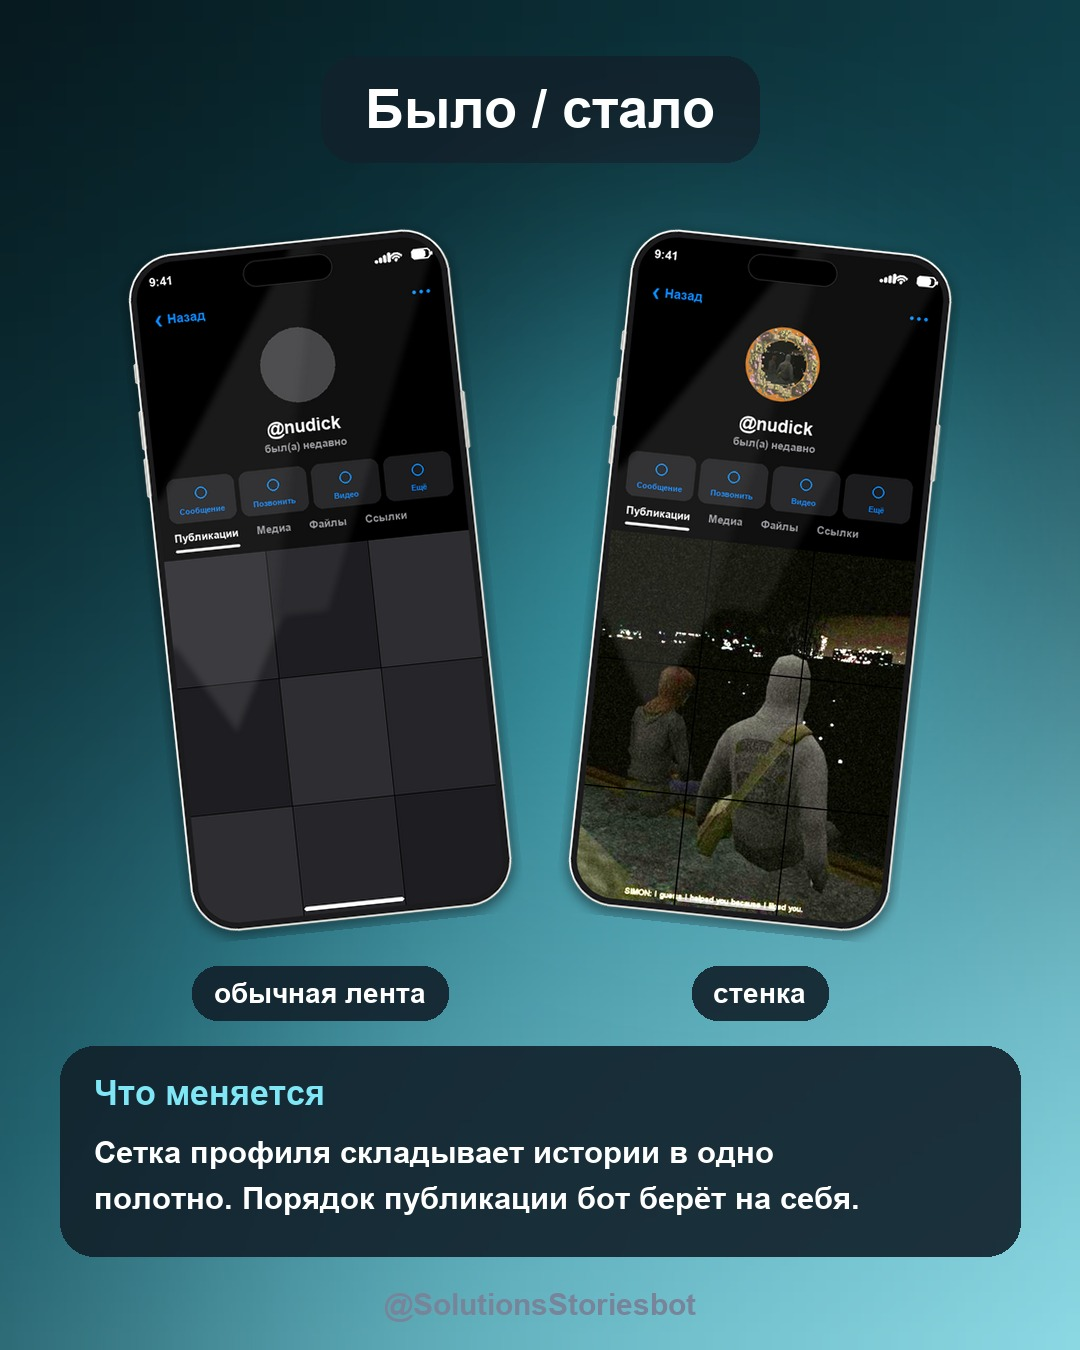
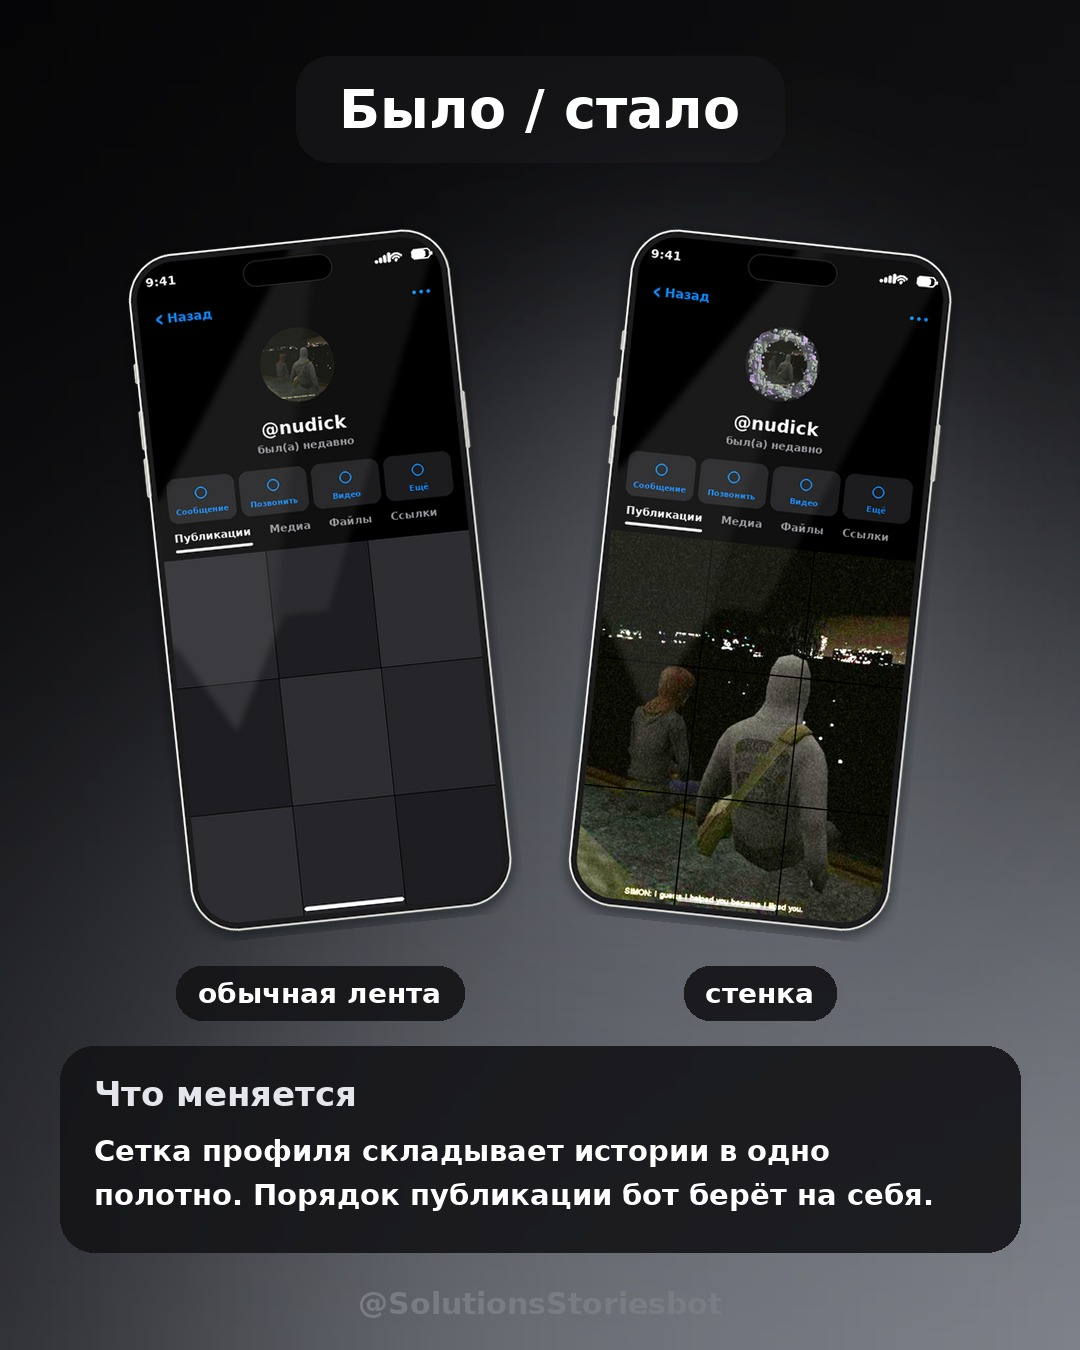
«Для чего это» — тоже серо-белое и на профиле нажавшего
Раздел объясняет, зачем человеку стенка, и объяснял это на чужом
демо-кадре в бирюзе. Теперь «было / стало» собирается на его аватарке:
слева его обычная лента, справа она же одним полотном — отличаются
половинки ровно тем, о чём раздел.

Аватарка на «было» настоящая и без рамки, иначе сравнение подменяет
заодно и лицо. Кадрируется по центру: почти никакая ава не квадратная,
и прежний resize превращал лицо в блин — это чинит и рамки в шапке
профиля на всех карточках.

Логика «взять аву, собрать, упасть на файл из assets» была написана
под инструкцию и теперь общая для обоих разделов.

diff --git a/make_assets.py b/make_assets.py
@@ -389,7 +389,9 @@ def _profile_chrome(screen: Image.Image, name: str, avatar: Image.Image | None) 
     avatar_d = 104
     top = 110
     if avatar is not None:
-        plate = avatar.convert("RGB").resize((avatar_d, avatar_d), Image.LANCZOS)
+        #: Кадрируем по центру, а не растягиваем: аватарка почти никогда
+        #: не квадратная, и resize превращал лицо в блин.
+        plate = slicer._cover(avatar.convert("RGB"), avatar_d, avatar_d)
         mask = Image.new("L", (avatar_d * 4, avatar_d * 4), 0)
         ImageDraw.Draw(mask).ellipse((0, 0, avatar_d * 4 - 1, avatar_d * 4 - 1), fill=255)
         screen.paste(plate, ((width - avatar_d) // 2, top),
@@ -478,10 +480,14 @@ def profile_screen(source: bytes, parts: int, width: int, name: str,
     return screen
 
 
-def blank_screen(name: str = "@nudick") -> Image.Image:
-    """Тот же профиль, но с обычной лентой — половина карточки «было/стало»."""
+def blank_screen(name: str = "@nudick", avatar: Image.Image | None = None) -> Image.Image:
+    """Тот же профиль, но с обычной лентой — половина карточки «было/стало».
+
+    Аватарка тут его настоящая, без рамки: половинки должны отличаться
+    ровно тем, о чём раздел, — лентой, а не подменённым лицом.
+    """
     screen = Image.new("RGB", (SCREEN_W, SCREEN_H), IOS_BG)
-    grid_top = _profile_chrome(screen, name, None)
+    grid_top = _profile_chrome(screen, name, avatar)
     draw = ImageDraw.Draw(screen)
     gap = 2
     cell = (SCREEN_W - gap * 2) // 3
@@ -635,12 +641,15 @@ def make_manual(source: bytes) -> Image.Image:
     return manual_card(source)
 
 
+def _jpeg(card: Image.Image) -> bytes:
+    buf = io.BytesIO()
+    card.convert("RGB").save(buf, format="JPEG", quality=90, optimize=True)
+    return buf.getvalue()
+
+
 def personal_manual(photo: bytes, name: str) -> bytes:
     """Та же карточка, но собранная под конкретного человека, в JPEG."""
-    buf = io.BytesIO()
-    manual_card(photo, name).convert("RGB").save(buf, format="JPEG", quality=90,
-                                                 optimize=True)
-    return buf.getvalue()
+    return _jpeg(manual_card(photo, name))
 
 
 def make_welcome(source: bytes) -> Image.Image:
@@ -669,22 +678,34 @@ def make_welcome(source: bytes) -> Image.Image:
     return card
 
 
-def make_about(source: bytes) -> Image.Image:
-    card = backdrop()
+def about_card(source: bytes, name: str = OWNER) -> Image.Image:
+    """«Было / стало» на профиле конкретного человека.
+
+    Раздел отвечает на вопрос «а зачем мне это»; ответ убедительнее
+    всего выглядит на его собственной аватарке: слева его обычная лента,
+    справа она же, собранная в одно полотно.
+    """
+    card = backdrop(stops=MONO_STOPS, glow_colour=MONO_GLOW)
     draw = ImageDraw.Draw(card, "RGBA")
-    title_plate(draw, "Было / стало")
+    title_plate(draw, "Было / стало", plate=MONO_PLATE)
 
     #: Наклон навстречу друг другу: два одинаково стоящих корпуса
     #: читаются как таблица, развёрнутые — как сравнение.
     shells = []
-    for inner, angle in ((blank_screen(OWNER), 6), (profile_screen(source, 9, SCREEN_W, OWNER), -6)):
+    with Image.open(io.BytesIO(source)) as raw:
+        face = raw.convert("RGB").copy()
+    screens = (
+        blank_screen(name, face),
+        profile_screen(source, 9, SCREEN_W, name, colour_index=0),
+    )
+    for inner, angle in zip(screens, (6, -6)):
         shell = phone(inner)
         scale = 700 / shell.height
         shell = shell.resize((round(shell.width * scale), round(shell.height * scale)),
                              Image.LANCZOS)
         shells.append(tilt(shell, angle))
 
-    halo(card, 700, 560, 250, (86, 220, 236), 0.34)
+    halo(card, 700, 560, 250, MONO_GLOW, 0.26)
     gap = 26
     span = shells[0].width + shells[1].width + gap
     x = (W - span) // 2
@@ -697,20 +718,27 @@ def make_about(source: bytes) -> Image.Image:
         cx = (W - span) // 2 + index * (shells[0].width + gap) + shells[0].width / 2
         w = draw.textlength(label, font=font(28))
         draw.rounded_rectangle((cx - w / 2 - 22, 966, cx + w / 2 + 22, 1020),
-                               radius=26, fill=PLATE + (PLATE_ALPHA,))
+                               radius=26, fill=MONO_PLATE + (PLATE_ALPHA,))
         draw.text((cx, 993), label, font=font(28), fill=INK, anchor="mm")
 
-    #: Две строки, а не четыре: плашка кончается на 1216, четвёртая
-    #: строка ложилась уже на градиент под ней.
     chip(
-        draw, (60, 1046, W - 60, 1216), "Что меняется",
-        [
-            "Сетка профиля складывает истории в одно",
-            "полотно. Порядок публикации бот берёт на себя.",
-        ],
+        draw, (60, 1046, W - 60, 1046), "Что меняется",
+        ["Сетка профиля складывает истории в одно полотно. "
+         "Порядок публикации бот берёт на себя."],
+        accent=MONO_ACCENT, plate=MONO_PLATE, size=29, step=44,
     )
-    footer(card)
+    footer(card, colour=MONO_FOOT)
     return card
+
+
+def make_about(source: bytes) -> Image.Image:
+    """Запасная витрина в файле — на случай, если у человека нет авы."""
+    return about_card(source)
+
+
+def personal_about(photo: bytes, name: str) -> bytes:
+    """«Было / стало» под конкретного человека, в JPEG."""
+    return _jpeg(about_card(photo, name))
 
 
 def profile_card(avatar_src: bytes, frame_index: int, colour_index: int,
@@ -824,7 +852,7 @@ def pick_source(argv: list[str]) -> bytes:
 #: у него нет ни исходников, ни шрифтов, — поэтому даже --force их не
 #: трогает. Один раз я так уже затёр готовые баннеры; проверка стоит
 #: строчки, а восстановление стоило вечера.
-HANDMADE = {"welcome.jpg", "about.jpg", "frames.jpg"}
+HANDMADE = {"welcome.jpg", "frames.jpg"}
 
 
 def main() -> int:

diff --git a/handlers.py b/handlers.py
@@ -153,7 +153,8 @@ async def on_start(message: Message, command: CommandObject, state: FSMContext) 
 @router.message(F.text == kb.ABOUT)
 async def on_about(message: Message, state: FSMContext) -> None:
     await state.clear()
-    await _send_asset(message, "about.jpg", texts.about(), kb.welcome())
+    await _personal_card(message, make_assets.personal_about, "about.jpg",
+                         texts.about(), kb.welcome())
     await _reward_inviter(message.bot, message.from_user.id)
 
 
@@ -174,30 +175,38 @@ async def _profile_photo(bot: Bot, user_id: int) -> bytes | None:
         return None
 
 
-@router.message(Command("help"))
-@router.message(F.text == kb.MANUAL)
-async def on_manual(message: Message, state: FSMContext) -> None:
-    await state.clear()
+async def _personal_card(message: Message, build, asset: str, caption: str,
+                         markup=None) -> None:
+    """Карточка, собранная на аватарке того, кто нажал кнопку.
+
+    И «Для чего это», и «Инструкция» рассказывают, что будет с его
+    профилем. На чужом демо-кадре это реклама, на его собственном —
+    ответ. Аву может скрывать приватность, рендер может упасть на битом
+    файле: ни то ни другое не повод оставить человека без карточки,
+    поэтому запасной вариант — готовый файл из assets.
+    """
     user = message.from_user
-    #: Инструкцию собираем на его собственном профиле: на своём лице
-    #: сразу видно, что получится, а порядок публикации запоминается
-    #: вместе с картинкой, а не как правило из текста.
     photo = await _profile_photo(message.bot, user.id)
     if photo:
         name = f"@{user.username}" if user.username else (user.first_name or "профиль")
         try:
-            card = await asyncio.to_thread(make_assets.personal_manual, photo, name)
+            card = await asyncio.to_thread(build, photo, name)
         except Exception:
-            #: Сломанная ава не должна стоить человеку инструкции —
-            #: молча уходим на общую карточку из assets.
-            logger.exception("не собрал личную инструкцию для %s", user.id)
+            logger.exception("не собрал личную карточку %s для %s", asset, user.id)
         else:
-            await message.answer_photo(BufferedInputFile(card, filename="manual.jpg"),
-                                       caption=texts.manual())
-            await _reward_inviter(message.bot, user.id)
+            await message.answer_photo(BufferedInputFile(card, filename=asset),
+                                       caption=caption, reply_markup=markup)
             return
-    await _send_asset(message, "manual.jpg", texts.manual())
-    await _reward_inviter(message.bot, user.id)
+    await _send_asset(message, asset, caption, markup)
+
+
+@router.message(Command("help"))
+@router.message(F.text == kb.MANUAL)
+async def on_manual(message: Message, state: FSMContext) -> None:
+    await state.clear()
+    await _personal_card(message, make_assets.personal_manual, "manual.jpg",
+                         texts.manual())
+    await _reward_inviter(message.bot, message.from_user.id)
 
 
 @router.message(F.text == kb.REFERRALS)
